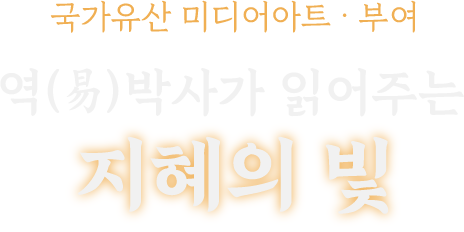
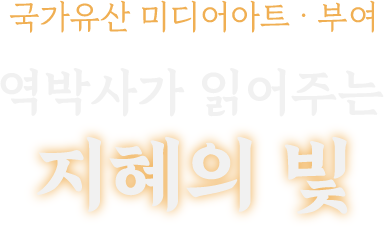
Update fortune page copy and title image

Changed region(s): [[0.0938, 0.5733, 0.9375, 0.9353], [0.0312, 0.0, 1.0, 0.1509], [0.5312, 0.6034, 0.5625, 0.6336]]

diff --git a/public/thelightofwisdom.html b/public/thelightofwisdom.html
@@ -277,8 +277,8 @@ h1.title{font-family:'ChosunGs',serif;font-size:9vw;font-weight:400;letter-spaci
 <!-- S1 입력 -->
 <section class="screen on" id="s1">
   <div class="s1-wrap">
-    <img class="s1-title-img" src="/assets/fortunelight/img/text_title_1.png" alt="국가유산 미디어아트 · 부여 / 역(易)박사가 읽어주는 지혜의 빛">
-    <p class="intro">천오백 년 전, 백제의 <b>역박사(易博士)</b>는 주역으로<br>우주의 이치를 읽어 길흉화복을 헤아렸습니다.<br>당신의 생년월일을 일러주시면, 역박사가 동양의 별자리 <b>28수(宿)</b>와<br><b>오행(五行)</b>으로 당신의 별을 읽어드립니다.</p>
+    <img class="s1-title-img" src="/assets/fortunelight/img/text_title_1.png" alt="국가유산 미디어아트 · 부여 / 역박사가 읽어주는 지혜의 빛">
+    <p class="intro">천오백 년 전, 백제의 <b>역박사</b>는 주역으로<br>우주의 이치를 읽어 길흉화복을 헤아렸습니다.<br>당신의 생년월일을 일러주시면, 역박사가 동양의 별자리 <b>28수(宿)</b>와<br><b>오행(五行)</b>으로 당신의 별을 읽어드립니다.</p>
     <div class="dob-label">당신의 생년월일을 선택해 주세요</div>
     <div class="wheel-wrap">
       <div class="wheel-unit wheel-unit-year">
@@ -1232,11 +1232,11 @@ const CONSTELLATIONS = [{"수": "각수", "한자": "角宿", "사신": "청룡"
 const CMAP = {}; CONSTELLATIONS.forEach(o=>{ CMAP[o['수']+o['한자']] = o; });
 /* === 연결된 사비백제 박사 (사신별, 유산과 별도) === */
 const DOCTOR = {
-'청룡':{name:'의박사 (醫博士)', desc:'몸과 생명을 살피고 의술을 전한 백제의 의학 박사입니다. 당신은 의박사처럼 작은 변화와 아픔을 먼저 알아차려 다시 일어서게 돕습니다.'},
-'주작':{name:'노반박사 (露盤博士)', desc:'탑 상륜부와 정밀 건축·금속 구조를 완성한 백제의 기술 박사입니다. 당신은 노반박사처럼 복잡한 것을 하나로 정리해 끝까지 완성합니다.'},
-'백호':{name:'역박사 (曆博士)', desc:'해·달·별을 관측해 달력과 계절의 질서를 밝힌 백제의 천문·역법 박사입니다. 당신은 역박사처럼 작은 변화에서 큰 흐름을 읽습니다.'},
-'현무':{name:'와박사 (瓦博士)', desc:'흙을 다뤄 오래 견디는 기와를 만든 백제의 기술 박사입니다. 당신은 와박사처럼 평범한 재료를 모아 튼튼한 기반을 만듭니다.'},
-'황룡(기린)':{name:'오경박사 (五經博士)', desc:'경전을 가르쳐 백제의 지식과 문화를 전한 학문의 박사입니다. 당신은 오경박사처럼 지식을 모아 남에게 쉽게 전하는 힘을 지녔습니다.'}
+'청룡':{name:'의박사', desc:'몸과 생명을 살피고 의술을 전한 백제의 의학 박사입니다. 당신은 의박사처럼 작은 변화와 아픔을 먼저 알아차려 다시 일어서게 돕습니다.'},
+'주작':{name:'노반박사', desc:'탑 상륜부와 정밀 건축·금속 구조를 완성한 백제의 기술 박사입니다. 당신은 노반박사처럼 복잡한 것을 하나로 정리해 끝까지 완성합니다.'},
+'백호':{name:'역박사', desc:'해·달·별을 관측해 달력과 계절의 질서를 밝힌 백제의 천문·역법 박사입니다. 당신은 역박사처럼 작은 변화에서 큰 흐름을 읽습니다.'},
+'현무':{name:'와박사', desc:'흙을 다뤄 오래 견디는 기와를 만든 백제의 기술 박사입니다. 당신은 와박사처럼 평범한 재료를 모아 튼튼한 기반을 만듭니다.'},
+'황룡(기린)':{name:'오경박사', desc:'경전을 가르쳐 백제의 지식과 문화를 전한 학문의 박사입니다. 당신은 오경박사처럼 지식을 모아 남에게 쉽게 전하는 힘을 지녔습니다.'}
 };
 /* === 천문카드 SVG 렌더 (동양 성도 양식: 점-선, 밝기=별 크기) === */
 function renderSky(su, hex){
